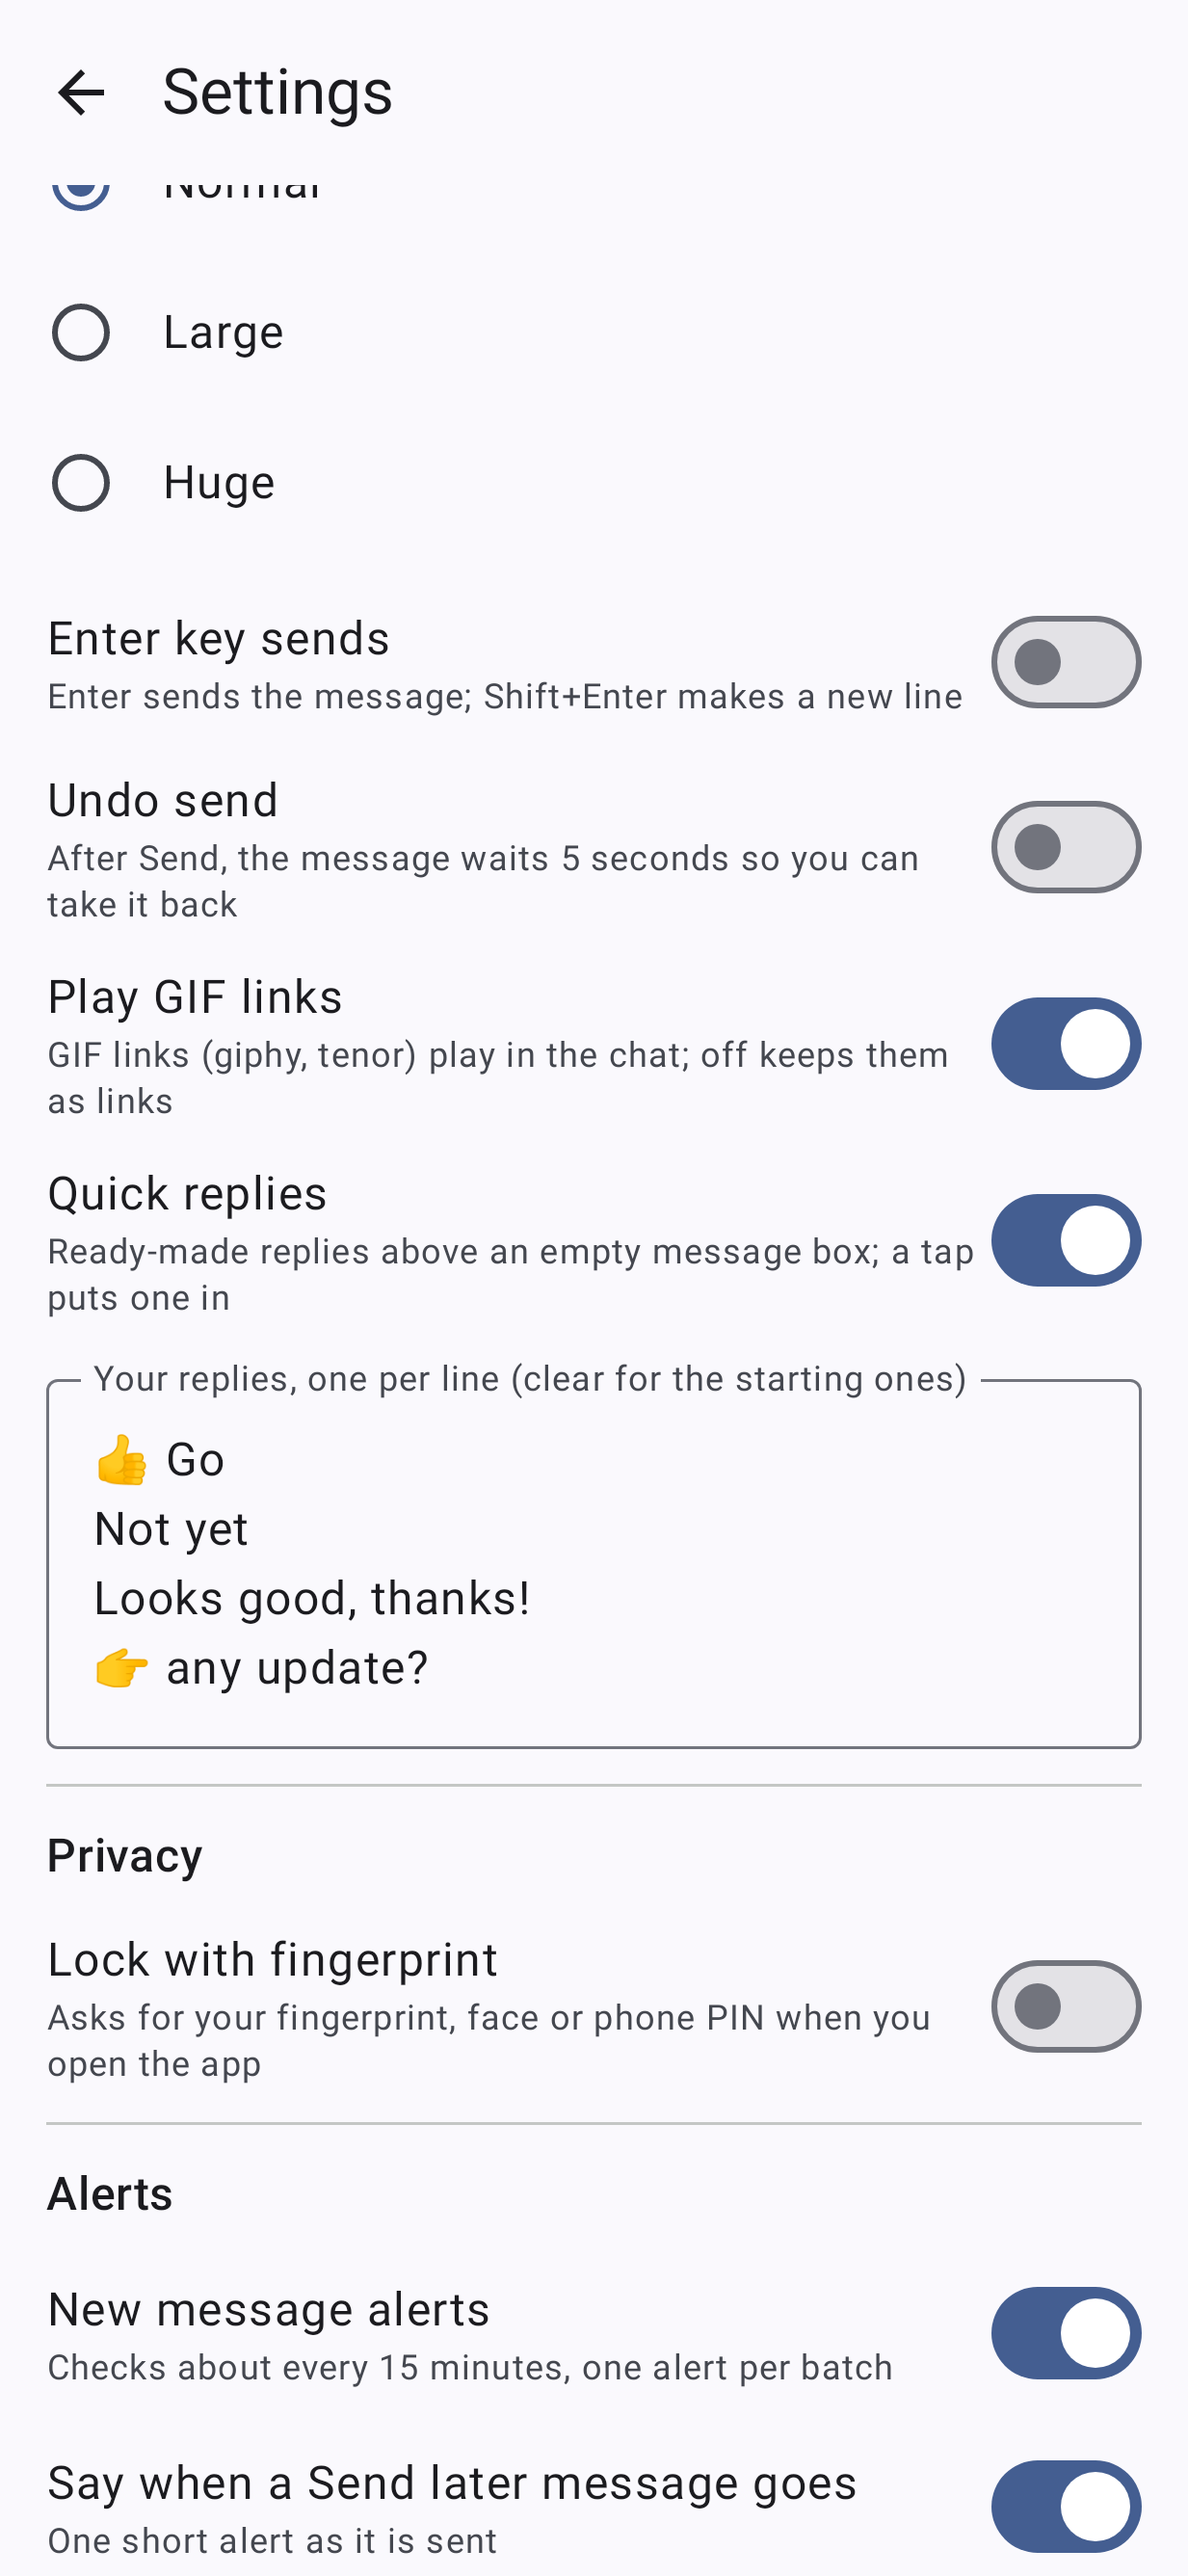
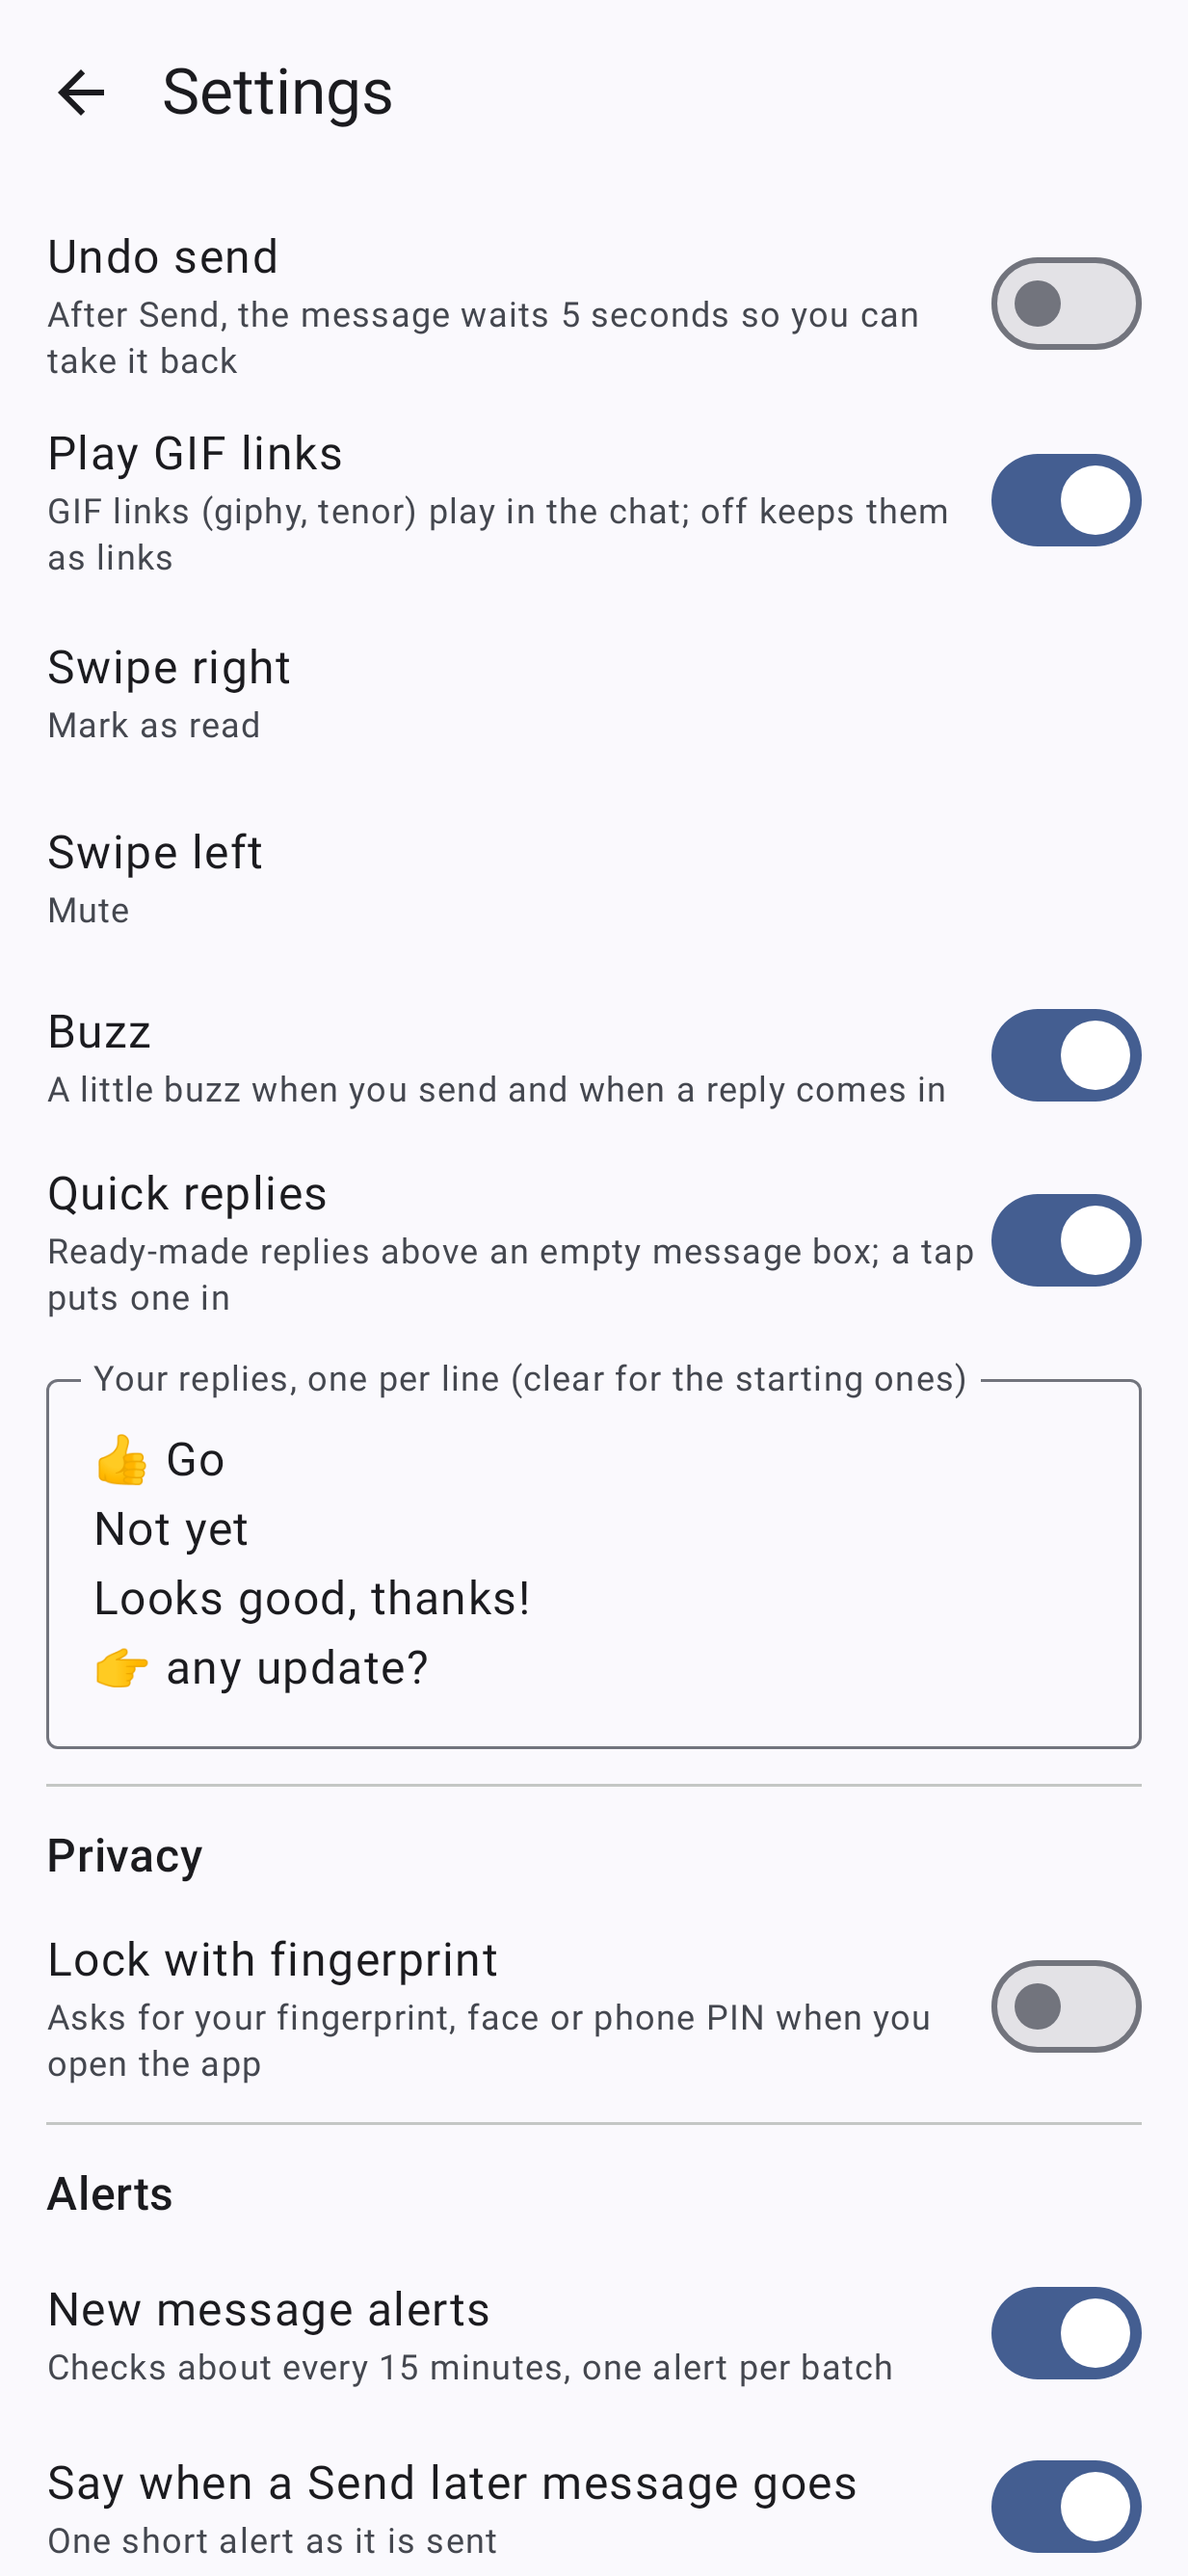
Settings: choose what swiping a chat does (AII-216)

diff --git a/app/src/main/java/com/smizflark/aigile/messenger/ui/SettingsScreen.kt b/app/src/main/java/com/smizflark/aigile/messenger/ui/SettingsScreen.kt
@@ -37,6 +37,11 @@ import androidx.compose.material3.Scaffold
 import androidx.compose.material3.Switch
 import androidx.compose.material3.Text
 import androidx.compose.material3.TextButton
+import androidx.compose.material3.RadioButton
+import androidx.compose.foundation.clickable
+import androidx.compose.foundation.selection.selectable
+import androidx.compose.foundation.selection.selectableGroup
+import androidx.compose.foundation.layout.heightIn
 import androidx.compose.material3.TopAppBar
 import androidx.compose.runtime.Composable
 import androidx.compose.runtime.getValue
@@ -114,6 +119,8 @@ fun SettingsScreen(repo: Repo, onBack: () -> Unit, onSignedOut: () -> Unit) {
             Toggle(stringResource(R.string.play_gifs), stringResource(R.string.play_gifs_sub), Appearance.gifs, Modifier.testTag("gifs")) {
                 Appearance.gifs = it; s.gifs = it
             }
+            SwipePick(stringResource(R.string.swipe_right), Appearance.swipeRight, "swipeRight") { Appearance.swipeRight = it; s.swipeRight = it.id }
+            SwipePick(stringResource(R.string.swipe_left), Appearance.swipeLeft, "swipeLeft") { Appearance.swipeLeft = it; s.swipeLeft = it.id }
             Toggle(stringResource(R.string.buzz), stringResource(R.string.buzz_sub), Appearance.buzz, Modifier.testTag("buzz")) {
                 Appearance.buzz = it; s.buzz = it
             }
@@ -284,4 +291,37 @@ private fun Stepper(label: String, value: Int, onChange: (Int) -> Unit) {
         Text(hour(value), style = MaterialTheme.typography.titleMedium)
         TextButton(onClick = { onChange((value + 1) % 24) }) { Text("+") }
     }
+}
+
+/** The words for a swipe choice (AII-216). */
+@Composable
+internal fun swipeLabel(c: com.smizflark.aigile.messenger.data.SwipeChoice) = stringResource(when (c) {
+    com.smizflark.aigile.messenger.data.SwipeChoice.READ -> R.string.mark_read
+    com.smizflark.aigile.messenger.data.SwipeChoice.MUTE -> R.string.mute
+    com.smizflark.aigile.messenger.data.SwipeChoice.PIN -> R.string.pin
+    com.smizflark.aigile.messenger.data.SwipeChoice.CLOSE -> R.string.close_chat
+    com.smizflark.aigile.messenger.data.SwipeChoice.NOTHING -> R.string.swipe_nothing
+})
+
+/** A row showing what a swipe does now; tap it for the pick list (AII-216). */
+@Composable
+private fun SwipePick(title: String, value: com.smizflark.aigile.messenger.data.SwipeChoice, tag: String, onPick: (com.smizflark.aigile.messenger.data.SwipeChoice) -> Unit) {
+    var open by remember { mutableStateOf(false) }
+    Column(Modifier.fillMaxWidth().heightIn(min = 52.dp).clickable(role = androidx.compose.ui.semantics.Role.Button) { open = true }.testTag(tag),
+        verticalArrangement = Arrangement.Center) {
+        Text(title, style = MaterialTheme.typography.bodyLarge)
+        Text(swipeLabel(value), style = MaterialTheme.typography.bodySmall, color = MaterialTheme.colorScheme.onSurfaceVariant)
+    }
+    if (open) AlertDialog(onDismissRequest = { open = false }, title = { Text(title) },
+        text = {
+            Column(Modifier.selectableGroup()) {
+                com.smizflark.aigile.messenger.data.SwipeChoice.entries.forEach { c ->
+                    Row(Modifier.fillMaxWidth().heightIn(min = 48.dp).selectable(selected = c == value, role = androidx.compose.ui.semantics.Role.RadioButton) { onPick(c); open = false }
+                        .testTag("$tag:${c.id}"), verticalAlignment = Alignment.CenterVertically) {
+                        RadioButton(selected = c == value, onClick = null)
+                        Text(swipeLabel(c), Modifier.padding(start = 16.dp), style = MaterialTheme.typography.bodyLarge)
+                    }
+                }
+            }
+        }, confirmButton = { TextButton(onClick = { open = false }) { Text(stringResource(R.string.cancel)) } })
 }

diff --git a/app/src/main/java/com/smizflark/aigile/messenger/ui/ChatRow.kt b/app/src/main/java/com/smizflark/aigile/messenger/ui/ChatRow.kt
@@ -54,6 +54,7 @@ import com.smizflark.aigile.messenger.data.Mute
 import com.smizflark.aigile.messenger.data.Pending
 import com.smizflark.aigile.messenger.data.Repo
 import com.smizflark.aigile.messenger.data.SwipeAction
+import com.smizflark.aigile.messenger.data.SwipeChoice
 import com.smizflark.aigile.messenger.data.swipeAction
 
 
@@ -62,27 +63,39 @@ import com.smizflark.aigile.messenger.data.swipeAction
 internal fun ChatRow(c: ChatRef, repo: Repo, fresh: Boolean, unread: Int, pinned: Boolean, muted: Boolean, unsent: List<Pending>, draft: String?, closed: Boolean,
                     onRead: () -> Unit, onUnread: () -> Unit, onMute: (Boolean) -> Unit, onPin: () -> Unit, onClose: (Boolean) -> Unit, onClick: () -> Unit) {
     var menu by remember { mutableStateOf(false) }
-    // Swipe right = mark read, left = mute/unmute (AII-61). The row always springs back.
+    // Swipes do what Settings says (AII-216; starting: right = mark read, left = mute/unmute, AII-61). The row always springs back.
     val mutedNow by rememberUpdatedState(muted)
+    val closedNow by rememberUpdatedState(closed)
+    val right = Appearance.swipeRight
+    val left = Appearance.swipeLeft
     val box = rememberSwipeToDismissBoxState(confirmValueChange = { v ->
-        when (swipeAction(when (v) { SwipeToDismissBoxValue.StartToEnd -> true; SwipeToDismissBoxValue.EndToStart -> false; else -> null }, mutedNow)) {
+        when (swipeAction(when (v) { SwipeToDismissBoxValue.StartToEnd -> true; SwipeToDismissBoxValue.EndToStart -> false; else -> null }, mutedNow, right, left)) {
             SwipeAction.READ -> onRead()
             SwipeAction.MUTE -> onMute(true)
             SwipeAction.UNMUTE -> onMute(false)
+            SwipeAction.PIN -> onPin()
+            SwipeAction.CLOSE -> onClose(!closedNow)
             null -> {}
         }
         false
     })
-    SwipeToDismissBox(box, modifier = Modifier.testTag("swipe:${c.key}"), backgroundContent = {
+    SwipeToDismissBox(box, modifier = Modifier.testTag("swipe:${c.key}"), enableDismissFromStartToEnd = right != SwipeChoice.NOTHING,
+        enableDismissFromEndToStart = left != SwipeChoice.NOTHING, backgroundContent = {
         val toRead = box.dismissDirection == SwipeToDismissBoxValue.StartToEnd
         val idle = box.dismissDirection == SwipeToDismissBoxValue.Settled
+        val pick = if (toRead) right else left
         Box(Modifier.fillMaxSize().background(when {
             idle -> Color.Transparent
             toRead -> MaterialTheme.colorScheme.primaryContainer
             else -> MaterialTheme.colorScheme.secondaryContainer
         }).padding(horizontal = 24.dp), contentAlignment = if (toRead) Alignment.CenterStart else Alignment.CenterEnd) {
-            if (!idle) Icon(if (toRead) Icons.Default.DoneAll else if (muted) Icons.Default.Notifications else Icons.Default.NotificationsOff,
-                stringResource(if (toRead) R.string.mark_read else if (muted) R.string.unmute else R.string.mute))
+            if (!idle) when (pick) {
+                SwipeChoice.READ -> Icon(Icons.Default.DoneAll, stringResource(R.string.mark_read))
+                SwipeChoice.MUTE -> Icon(if (muted) Icons.Default.Notifications else Icons.Default.NotificationsOff, stringResource(if (muted) R.string.unmute else R.string.mute))
+                SwipeChoice.PIN -> Icon(Icons.Default.PushPin, stringResource(if (pinned) R.string.unpin else R.string.pin))
+                SwipeChoice.CLOSE -> Icon(Icons.Default.Close, stringResource(if (closed) R.string.reopen_chat else R.string.close_chat))
+                SwipeChoice.NOTHING -> {}
+            }
         }
     }) {
     Row(

diff --git a/app/src/main/java/com/smizflark/aigile/messenger/ui/Theme.kt b/app/src/main/java/com/smizflark/aigile/messenger/ui/Theme.kt
@@ -79,6 +79,9 @@ object Appearance {
     var gifs by mutableStateOf(true)
     /** Undo send (AII-202): Send waits 5 seconds with an Undo bar. */
     var undoSend by mutableStateOf(false)
+    /** What swiping a chat does (AII-216). */
+    var swipeRight by mutableStateOf(com.smizflark.aigile.messenger.data.SWIPE_RIGHT_DEFAULT)
+    var swipeLeft by mutableStateOf(com.smizflark.aigile.messenger.data.SWIPE_LEFT_DEFAULT)
     /** Buzz on send and on a new reply (AII-205). */
     var buzz by mutableStateOf(true)
     /** Quick replies above an empty message box (AII-179); off until loaded, so screenshots stay as they were. */
@@ -87,7 +90,7 @@ object Appearance {
     var replies by mutableStateOf(emptyList<String>())
 
     fun load(store: Store) {
-        if (look == null) { look = Look.of(store.look); phoneColours = store.phoneColours; textSize = TextSize.of(store.textSize); enterSends = store.enterSends; gifs = store.gifs; buzz = store.buzz; undoSend = store.undoSend; quickReplies = store.quickReplies; replies = com.smizflark.aigile.messenger.data.Replies.parse(store.quickReplyText) }
+        if (look == null) { look = Look.of(store.look); phoneColours = store.phoneColours; textSize = TextSize.of(store.textSize); enterSends = store.enterSends; gifs = store.gifs; buzz = store.buzz; swipeRight = com.smizflark.aigile.messenger.data.SwipeChoice.of(store.swipeRight, com.smizflark.aigile.messenger.data.SWIPE_RIGHT_DEFAULT); swipeLeft = com.smizflark.aigile.messenger.data.SwipeChoice.of(store.swipeLeft, com.smizflark.aigile.messenger.data.SWIPE_LEFT_DEFAULT); undoSend = store.undoSend; quickReplies = store.quickReplies; replies = com.smizflark.aigile.messenger.data.Replies.parse(store.quickReplyText) }
     }
 }
 

diff --git a/app/src/main/java/com/smizflark/aigile/messenger/data/Swipe.kt b/app/src/main/java/com/smizflark/aigile/messenger/data/Swipe.kt
@@ -1,11 +1,25 @@
 package com.smizflark.aigile.messenger.data
 
-/** What a swipe on a chat row does (AII-61). */
-enum class SwipeAction { READ, MUTE, UNMUTE }
+/** What a swipe on a chat row does (AII-61, AII-216). */
+enum class SwipeAction { READ, MUTE, UNMUTE, PIN, CLOSE }
 
-/** Right = mark read, left = mute (or unmute when the chat is already muted). Other directions do nothing. */
-fun swipeAction(toEnd: Boolean?, muted: Boolean): SwipeAction? = when (toEnd) {
-    true -> SwipeAction.READ
-    false -> if (muted) SwipeAction.UNMUTE else SwipeAction.MUTE
-    null -> null
+/** What a swipe can be set to in Settings (AII-216); [id] is what the Store keeps. */
+enum class SwipeChoice(val id: String) {
+    READ("read"), MUTE("mute"), PIN("pin"), CLOSE("close"), NOTHING("nothing");
+
+    companion object { fun of(id: String?, default: SwipeChoice) = entries.firstOrNull { it.id == id } ?: default }
 }
+
+/** Starting choices: right = mark read, left = mute. */
+val SWIPE_RIGHT_DEFAULT = SwipeChoice.READ
+val SWIPE_LEFT_DEFAULT = SwipeChoice.MUTE
+
+/** The chosen action for a swipe; mute turns into unmute when the chat is already muted. Other directions and Nothing do nothing. */
+fun swipeAction(toEnd: Boolean?, muted: Boolean, right: SwipeChoice = SWIPE_RIGHT_DEFAULT, left: SwipeChoice = SWIPE_LEFT_DEFAULT): SwipeAction? =
+    when (when (toEnd) { true -> right; false -> left; null -> SwipeChoice.NOTHING }) {
+        SwipeChoice.READ -> SwipeAction.READ
+        SwipeChoice.MUTE -> if (muted) SwipeAction.UNMUTE else SwipeAction.MUTE
+        SwipeChoice.PIN -> SwipeAction.PIN
+        SwipeChoice.CLOSE -> SwipeAction.CLOSE
+        SwipeChoice.NOTHING -> null
+    }

diff --git a/app/src/main/java/com/smizflark/aigile/messenger/data/Store.kt b/app/src/main/java/com/smizflark/aigile/messenger/data/Store.kt
@@ -129,6 +129,13 @@ class Store(context: Context) {
     var gifs: Boolean
         get() = settings.getBoolean("gifs", true)
         set(v) = settings.edit().putBoolean("gifs", v).apply()
+    /** AII-216: what swiping a chat right / left does (SwipeChoice ids). */
+    var swipeRight: String
+        get() = settings.getString("swipeRight", SWIPE_RIGHT_DEFAULT.id) ?: SWIPE_RIGHT_DEFAULT.id
+        set(v) = settings.edit().putString("swipeRight", v).apply()
+    var swipeLeft: String
+        get() = settings.getString("swipeLeft", SWIPE_LEFT_DEFAULT.id) ?: SWIPE_LEFT_DEFAULT.id
+        set(v) = settings.edit().putString("swipeLeft", v).apply()
     /** AII-205: the little buzz on send and on a new reply (AII-49); off keeps the phone still. */
     var buzz: Boolean
         get() = settings.getBoolean("buzz", true)
@@ -269,7 +276,7 @@ class Store(context: Context) {
     companion object {
         const val SETTINGS = "settings"
         /** The preferences that go into backup. Everything else stays in the "messenger" file. */
-        val BACKED_UP = listOf("alerts", "quietFrom", "quietTo", "quietOn", "look", "phoneColours", "textSize", "enterSends", "undoSend", "gifs", "buzz", "quickReplies", "quickReplyText", "pinned", "muted")
+        val BACKED_UP = listOf("alerts", "quietFrom", "quietTo", "quietOn", "look", "phoneColours", "textSize", "enterSends", "undoSend", "gifs", "buzz", "swipeRight", "swipeLeft", "quickReplies", "quickReplyText", "pinned", "muted")
 
         /** One-time move of the settings out of the pairing file, so the pairing file can stay out of backup. */
         fun moveSettings(from: SharedPreferences, to: SharedPreferences) {

diff --git a/app/src/test/java/com/smizflark/aigile/messenger/SwipeTest.kt b/app/src/test/java/com/smizflark/aigile/messenger/SwipeTest.kt
@@ -1,6 +1,7 @@
 package com.smizflark.aigile.messenger
 
 import com.smizflark.aigile.messenger.data.SwipeAction
+import com.smizflark.aigile.messenger.data.SwipeChoice as C
 import com.smizflark.aigile.messenger.data.swipeAction
 import org.junit.Assert.assertEquals
 import org.junit.Assert.assertNull
@@ -12,4 +13,18 @@ class SwipeTest {
     @Test fun leftMutes() = assertEquals(SwipeAction.MUTE, swipeAction(false, false))
     @Test fun leftOnMutedUnmutes() = assertEquals(SwipeAction.UNMUTE, swipeAction(false, true))
     @Test fun noDirectionDoesNothing() = assertNull(swipeAction(null, false))
+
+    // AII-216
+
+    @Test fun choicesFollowSettings() {
+        assertEquals(SwipeAction.PIN, swipeAction(true, false, C.PIN, C.CLOSE))
+        assertEquals(SwipeAction.CLOSE, swipeAction(false, false, C.PIN, C.CLOSE))
+        assertEquals(SwipeAction.UNMUTE, swipeAction(true, true, C.MUTE, C.READ))
+        assertEquals(SwipeAction.READ, swipeAction(false, true, C.MUTE, C.READ))
+    }
+    @Test fun nothingTurnsASwipeOff() { assertNull(swipeAction(true, false, C.NOTHING, C.MUTE)); assertNull(swipeAction(false, false, C.READ, C.NOTHING)) }
+    @Test fun idsRoundTripAndUnknownFallsBack() {
+        C.entries.forEach { assertEquals(it, C.of(it.id, C.NOTHING)) }
+        assertEquals(C.READ, C.of("bogus", C.READ)); assertEquals(C.MUTE, C.of(null, C.MUTE))
+    }
 }
